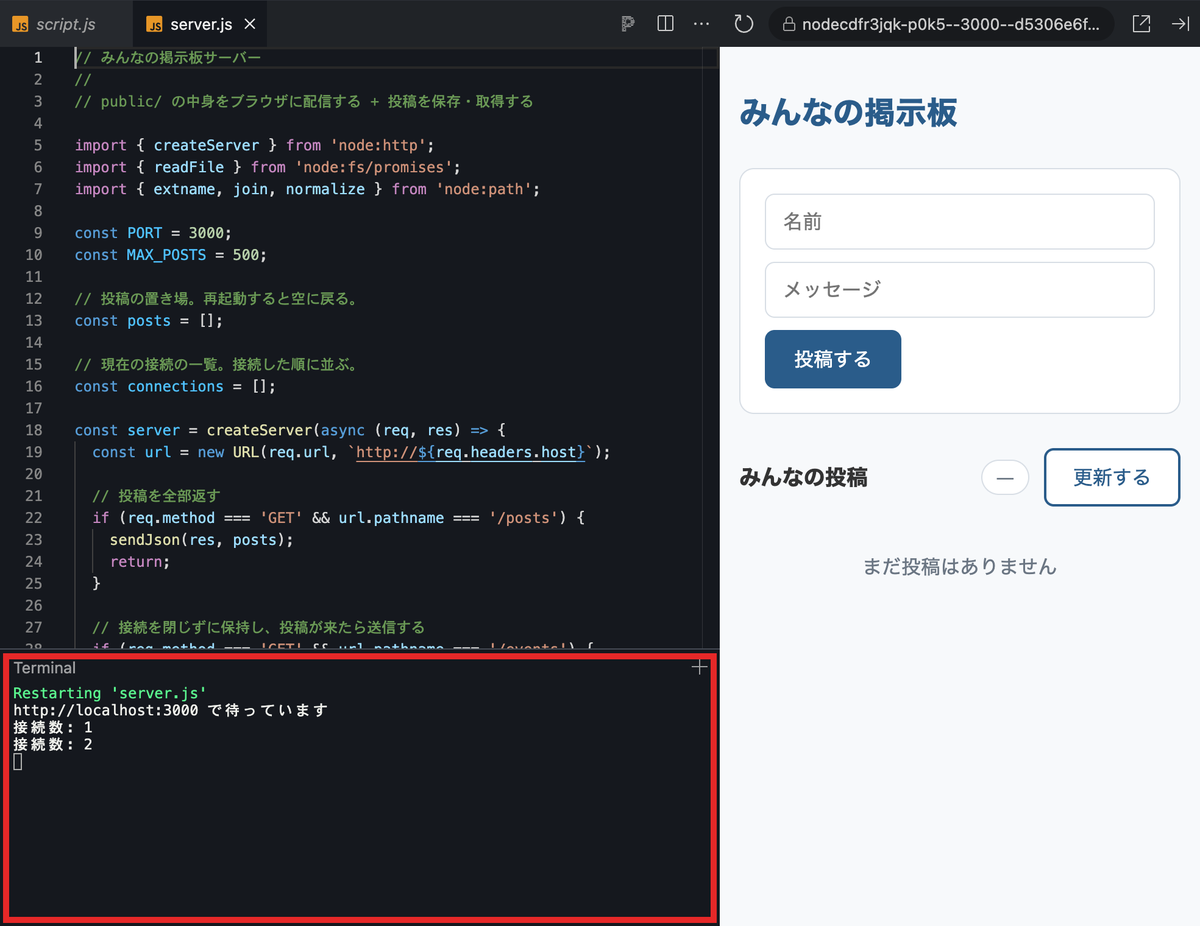
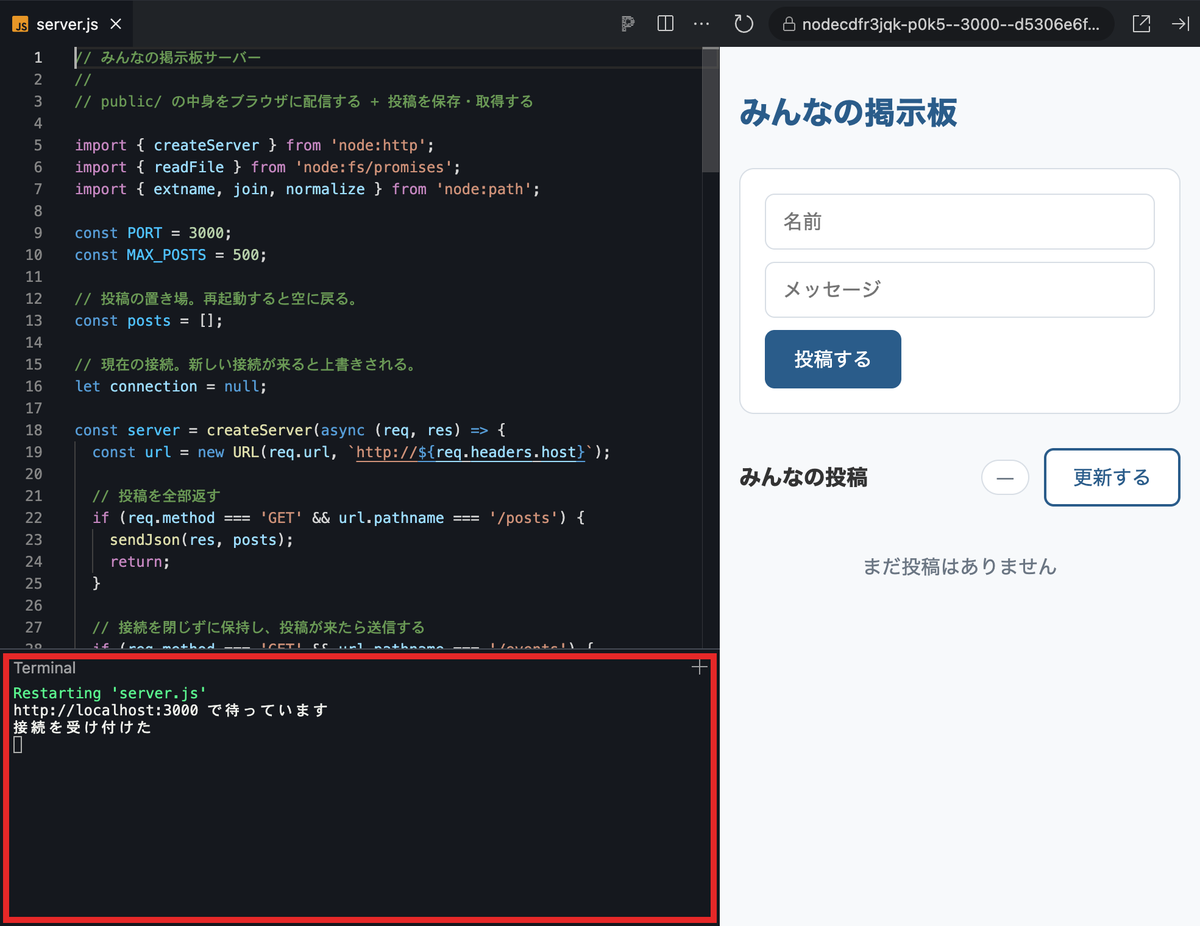
4-1 で接続を受け付けたログを出し、5-0 のヒントにする

diff --git a/2026/board-advanced/examples/snapshots/ch4.server.js b/2026/board-advanced/examples/snapshots/ch4.server.js
@@ -31,6 +31,7 @@ const server = createServer(async (req, res) => {
     });
     res.flushHeaders();
     connection = res;
+    console.log('接続を受け付けた');
     return;
   }
 

diff --git a/2026/board-advanced/slide.md b/2026/board-advanced/slide.md
@@ -1369,6 +1369,7 @@ const posts = [];                    // すでにある行
 @@    });@@
 @@    res.______();@@                    // ヘッダーだけ先に送る
 @@    connection = res;@@                // res.end() は呼ばず、閉じないまま保持する
+@@    console.log('接続を受け付けた');@@
 @@    return;@@
 @@  }@@
 ```
@@ -1386,6 +1387,7 @@ const posts = [];                    // すでにある行
     });
     res.@@flushHeaders@@();
     connection = res;
+    console.log('接続を受け付けた');
     return;
   }
 ```
@@ -1479,11 +1481,14 @@ data: {"name":"たろう","text":"やっほー"}
 
 ## 4章の動作チェック
 
-### 3つとも当てはまれば 4章は完了
+![bg right:40% fit](imgs/stackblitz-terminal.png)
+
+### 4つとも当てはまれば 4章は完了
 
 1. Network タブの `events` の行は、Status が 200 のまま Time が伸び続ける
 2. 投稿すると、`events` の EventStream タブに行が1つ増える
 3. 一覧にも、投稿が出る
+4. ターミナルに `接続を受け付けた` が出る (右の赤枠)
 
 早く終わった人は → <a href="https://github.com/jigintern/study_session_materials/blob/main/2026/board-advanced/advanced.md#4章が早く終わった人へ" target="_blank">4章の応用課題</a> {.jump}
 
@@ -1505,11 +1510,12 @@ data: {"name":"たろう","text":"やっほー"}
 
 ![bg right:40% fit](imgs/two-tabs.png)
 
-いまの `server.js` は、接続を1本しか保持していません。
-
 1. プレビュー右上の「新しいタブで開く」を2回押す
 2. それぞれのタブで投稿する
 3. 投稿が出るのは、あとから開いたタブだけ
+
+ターミナルには、タブを開くたびに `接続を受け付けた` が出ます。
+受け取った接続のうち、`connection` に残るのは最後の1本だけです。
 
 この章で、開いているすべてのタブに投稿が届くように直します。
 
@@ -1529,6 +1535,7 @@ data: {"name":"たろう","text":"やっほー"}
 
 ```javascript {data-file=server.js}
 %%    connection = res;%%
+%%    console.log('接続を受け付けた');%%
 @@    connections.push(res);@@
 @@    console.log(`接続数: ${connections.length}`);@@
 ```
@@ -1539,7 +1546,7 @@ data: {"name":"たろう","text":"やっほー"}
 |---|---|
 | `<配列>.length` | <配列>の要素の数 |
 
-**成功**: `server.js` を保存すると、StackBlitz の下側のターミナルに `接続数: ` が出る
+**成功**: `server.js` を保存すると、ターミナルに `接続数: ` が出る
 
 ---
 
@@ -1566,8 +1573,6 @@ data: {"name":"たろう","text":"やっほー"}
 ---
 
 ## 5章の動作チェック
-
-![bg right:40% fit](imgs/stackblitz-terminal.png)
 
 ### タブを3枚開いて確かめる
 
